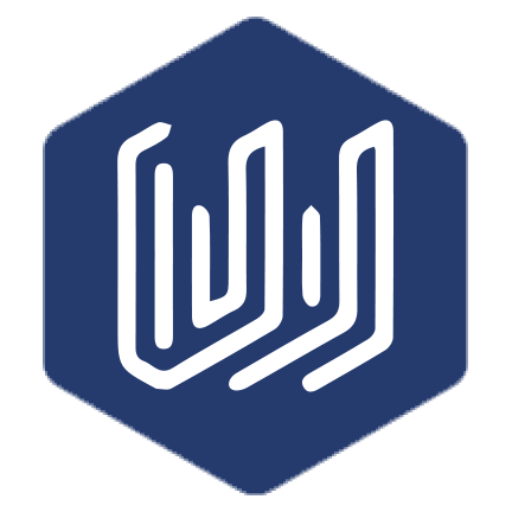
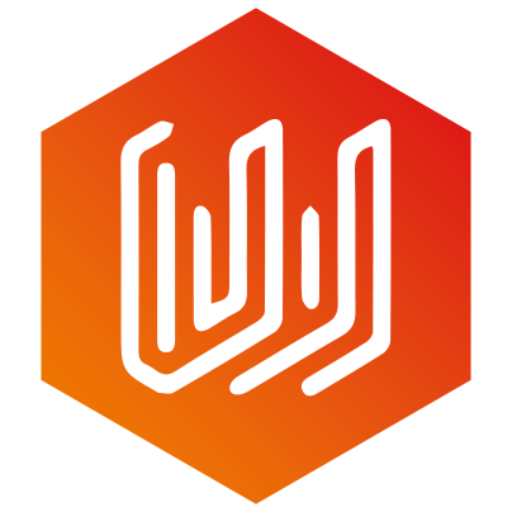
Add proper branding colors

diff --git a/_layouts/wanted-website.html b/_layouts/wanted-website.html
@@ -14,19 +14,19 @@
 
         <!--[if IE]><meta http-equiv="x-ua-compatible" content="IE=9" /><![endif]-->
 
-        <title>Leverage - Your next level of website building</title>
+        <title>Your challenges, our solutions | WANTED.solutions</title>
 
-        <meta name="description" content="Creative Agency, Portfolio, Corporate, Startup & Technology">
+        <meta name="description" content="">
         <meta name="subject" content="Creative Agency, Portfolio, Corporate, Startup & Technology">
         <meta name="author" content="Codings">
 
         <!-- ==============================================
         Favicons
         =============================================== -->
-        <link rel="shortcut icon" href="assets/images/favicon.ico">
-        <link rel="apple-touch-icon" href="assets/images/apple-touch-icon.png">
-        <link rel="apple-touch-icon" sizes="72x72" href="assets/images/apple-touch-icon-72x72.png">
-        <link rel="apple-touch-icon" sizes="114x114" href="assets/images/apple-touch-icon-114x114.png">
+        <link rel="shortcut icon" href="assets/branding/favicon.ico">
+        <link rel="apple-touch-icon" href="assets/branding/apple-touch-icon.png">
+        <link rel="apple-touch-icon" sizes="72x72" href="assets/branding/apple-touch-icon-72x72.png">
+        <link rel="apple-touch-icon" sizes="114x114" href="assets/branding/apple-touch-icon-114x114.png">
 
         <!-- ==============================================
         Vendor Stylesheet
@@ -94,7 +94,7 @@
                             <div class="col-12 d-flex inner">
                                 <div class="left align-self-center text-center text-md-left">
                                     <h1 data-aos="zoom-out-up" data-aos-delay="400" class="title effect-static-text">YOUR CHALLENGES<br/>OUR SOLUTIONS</h1>
-                                    <p data-aos="zoom-out-up" data-aos-delay="800" class="description">WANTED.<small>SOLUTIONS</small></p>
+                                    <!-- <p data-aos="zoom-out-up" data-aos-delay="800" class="description">WANTED.<small>SOLUTIONS</small></p> -->
                                     <a href="#contact" data-aos="zoom-out-up" data-aos-delay="1200" class="smooth-anchor ml-auto mr-auto ml-md-0 mt-4 btn dark-button"><i class="icon-cup"></i>GET STARTED</a>
                                 </div>
                             </div>

diff --git a/assets/css/default.css b/assets/css/default.css
@@ -167,8 +167,8 @@ footer .dark-button {
 /* #region Effect */
 
 .effect-static-text {
-    background-image: -webkit-linear-gradient(45deg, var(--secondary-color) 15%, var(--primary-color) 65%);
-    background-image: linear-gradient(45deg, var(--secondary-color) 15%, var(--primary-color) 65%);
+    background-image: -webkit-linear-gradient(45deg, var(--primary-color) 5%, var(--secondary-color) 65%);
+    background-image: linear-gradient(45deg, var(--primary-color) 5%, var(--secondary-color) 65%);
     -webkit-background-clip: text;
     -moz-background-clip: text;
          background-clip: text;

diff --git a/assets/css/theme-pink.css b/assets/css/theme-pink.css
@@ -25,8 +25,8 @@
 
 :root {
     
-    --primary-color: #dd1e4b;
-    --secondary-color: #E0040B;
+    --primary-color: #e0812f;
+    --secondary-color: #ca2e26;
 }
 
 /* #endregion Root */
